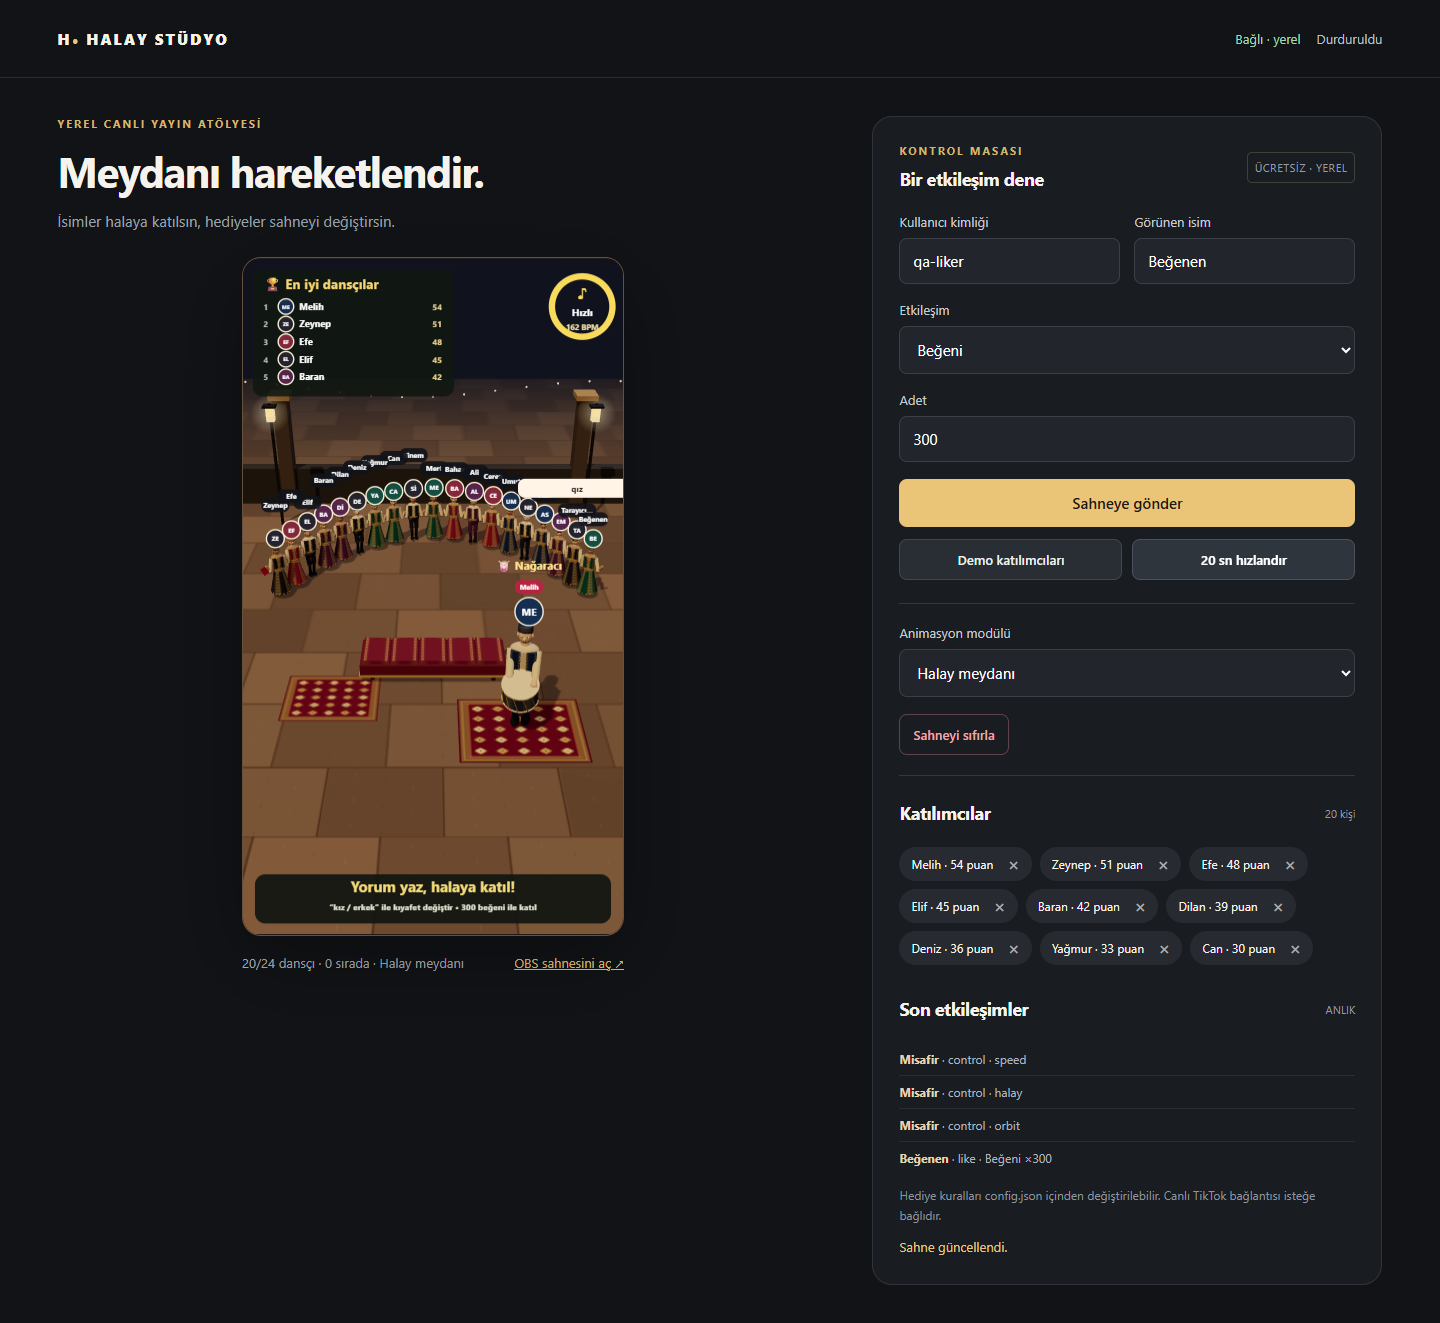
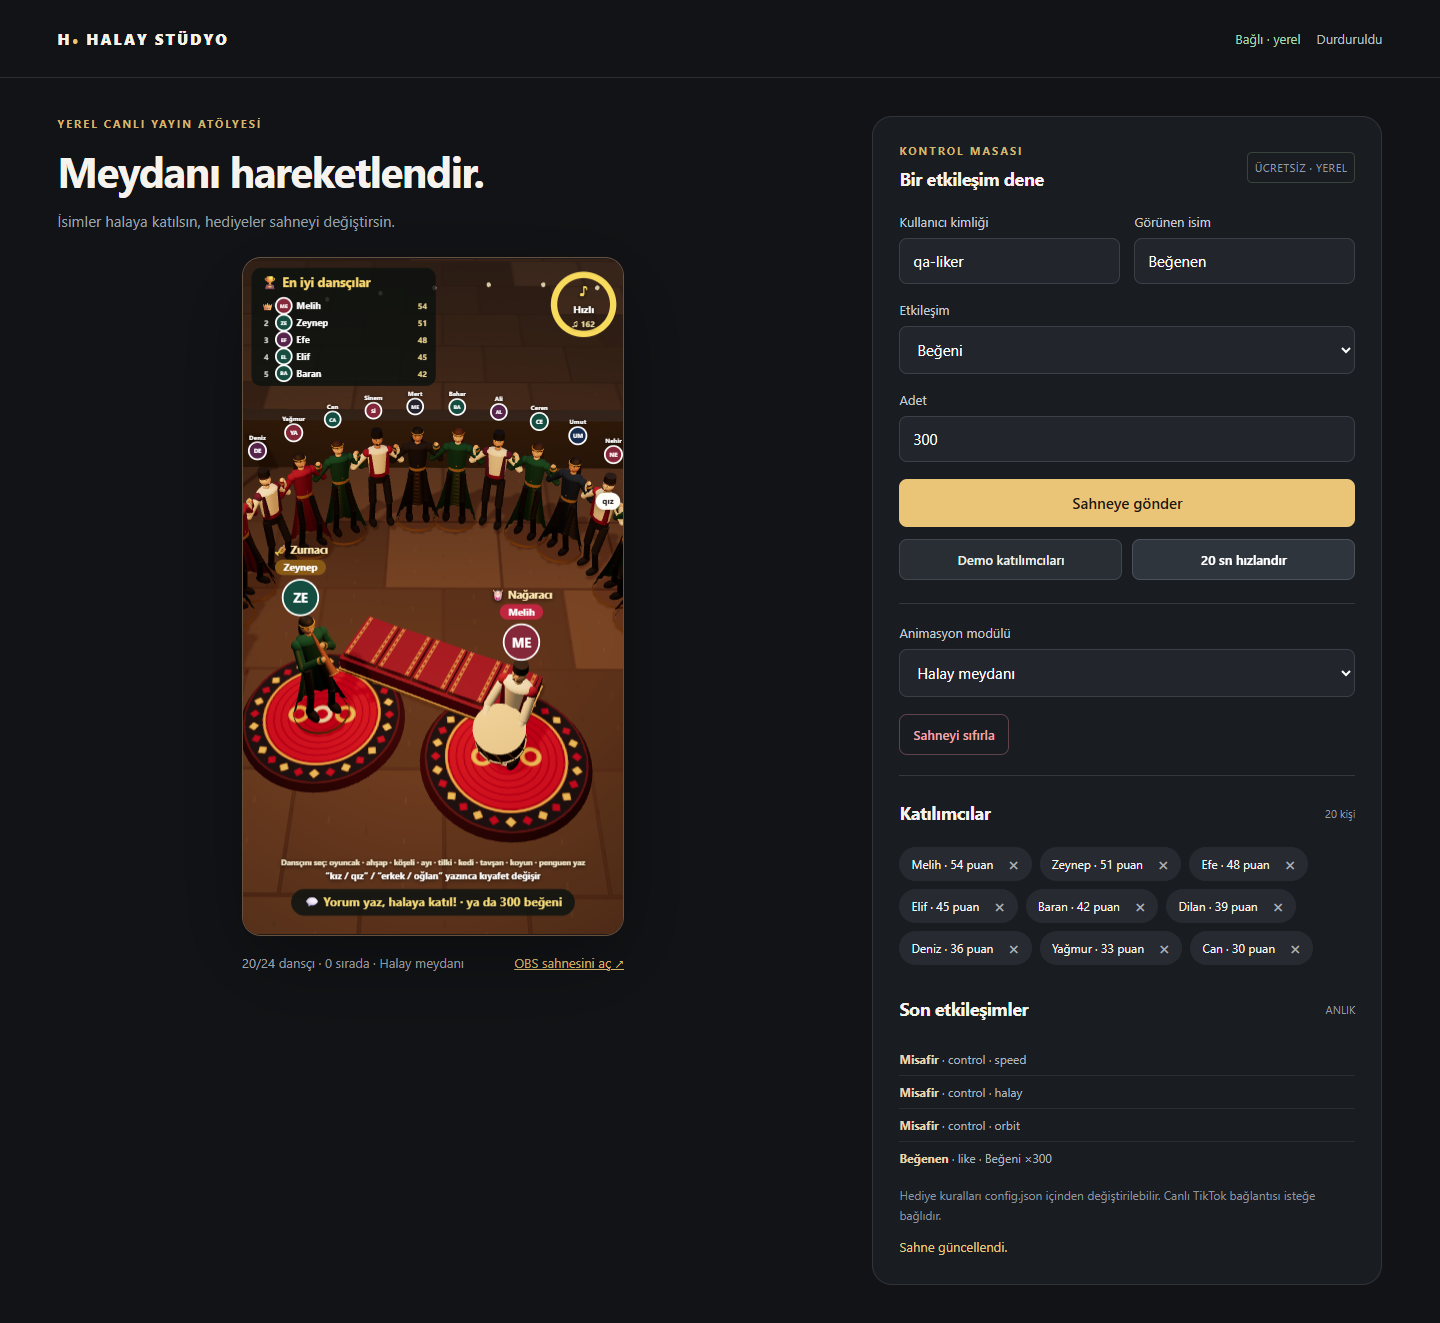
Add costume picks from the reference video and fix test paths
- "Dansçını seç" costumes: ayı, tilki, kedi, tavşan, koyun and penguen
  mascots with their own heads, ears, muzzles and tails; oyuncak (glossy
  plastic), ahşap (carved wood) and köşeli (low-poly) material styles.
- Overlay footer shows the costume list like the reference recording; demo
  comments now cycle through every costume and command.
- Tests locate the project from their own path instead of a hardcoded
  D:\tiktokAnimasyon folder; docs refer to the project folder.
- Refresh QA reports and screenshots from a full passing run.

Changed region(s): [[0.1562, 0.1859, 0.4375, 0.7128]]

diff --git a/app/halay3d.js b/app/halay3d.js
@@ -36,9 +36,59 @@ function dressFabric(color){
  for(let y=10;y<256;y+=22){ctx.fillStyle='#d8b867aa';ctx.beginPath();ctx.moveTo(128,y-5);ctx.lineTo(132,y);ctx.lineTo(128,y+5);ctx.lineTo(124,y);ctx.fill()}
  const tex=new T.CanvasTexture(cn);tex.colorSpace=T.SRGBColorSpace;const material=new T.MeshStandardMaterial({map:tex,roughness:.92,metalness:.02});materials.set(key,material);return material;
 }
+// "Dansçını seç" kostümleri: hayvan maskotları ve malzeme stilleri.
+const ANIMALS={
+ 'ayı':{fur:'#6b4630',muzzle:'#c49a72',ears:'round'},
+ 'tilki':{fur:'#c8622a',muzzle:'#f3e7d8',ears:'pointy',tip:'#2b1d17',tail:'#c8622a'},
+ 'kedi':{fur:'#8d8a86',muzzle:'#efe8de',ears:'cat',whiskers:true},
+ 'tavşan':{fur:'#ece6de',muzzle:'#fbf6f0',ears:'long',inner:'#e9a7b2',tail:'#ffffff'},
+ 'koyun':{fur:'#f1ece2',face:'#2b2522',muzzle:'#3a312c',ears:'side',wool:true},
+ 'penguen':{fur:'#1b1c22',muzzle:'#f2f0ea',ears:'none',beak:'#f0a232',belly:'#f4f1ea'}
+};
+const STYLES=new Set(['oyuncak','ahşap','köşeli']);
+function woodMaterial(dark){
+ const key='wood:'+dark;if(materials.has(key))return materials.get(key);
+ const cn=document.createElement('canvas');cn.width=cn.height=256;const ctx=cn.getContext('2d');
+ ctx.fillStyle=dark?'#6b4428':'#b07a48';ctx.fillRect(0,0,256,256);
+ for(let i=0;i<70;i++){ctx.strokeStyle=i%3?'#00000018':'#ffffff14';ctx.lineWidth=1+i%3;ctx.beginPath();const y=i*3.7;ctx.moveTo(0,y);for(let x=0;x<=256;x+=16)ctx.lineTo(x,y+Math.sin(x*.05+i)*4);ctx.stroke()}
+ const tex=new T.CanvasTexture(cn);tex.colorSpace=T.SRGBColorSpace;const m=new T.MeshStandardMaterial({map:tex,roughness:.7});materials.set(key,m);return m;
+}
+function toyMaterial(source,hash){
+ // Parlak plastik: dokuyu bırakır, rengi doygunlaştırır.
+ const base=new T.Color(source.color);if(source.map)base.set(['#e63946','#2a9d8f','#457bdc','#f4a261','#9b5de5'][hash%5]);
+ const hsl={};base.getHSL(hsl);const key='toy:'+base.getHexString();if(materials.has(key))return materials.get(key);
+ const m=new T.MeshStandardMaterial({color:new T.Color().setHSL(hsl.h,Math.min(1,hsl.s*1.4+.15),Math.min(.62,Math.max(.3,hsl.l*1.15))),roughness:.28,metalness:.05});materials.set(key,m);return m;
+}
+function animalHead(body,kind,a){
+ const fur=mat(a.fur,.85),face=mat(a.face||a.fur,.85),muzzle=mat(a.muzzle,.8),dark=mat('#120f10',.4);
+ ell(body,face,0,1.6,0,.095,.1,.095);
+ if(kind==='penguen'){for(const x of [-.035,.035])ell(body,mat('#f2f0ea',.8),x,1.62,.06,.035,.045,.03);const beak=mesh(geo('beak',()=>new T.ConeGeometry(.025,.08,10)),mat(a.beak,.5),body,0,1.585,.11);beak.rotation.x=Math.PI/2;ell(body,mat(a.belly,.85),0,1.15,.07,.12,.26,.07)}
+ else{ell(body,muzzle,0,1.575,.07,.05,.04,.045);ell(body,dark,0,1.59,.11,.016,.012,.01)}
+ for(const x of [-.034,.034])ell(body,dark,x,1.63,.08,.012,.014,.006);
+ const ears=[];
+ if(a.ears==='round')for(const s of [-1,1])ears.push(ell(body,fur,s*.07,1.69,-.005,.035,.035,.02));
+ if(a.ears==='pointy'||a.ears==='cat')for(const s of [-1,1]){const h=a.ears==='cat'?.07:.1,e=mesh(geo('ear'+h,()=>new T.ConeGeometry(.04,h,4)),fur,body,s*.06,1.7+h*.3,-.01);e.rotation.z=-s*.25;if(a.tip)mesh(geo('eartip',()=>new T.ConeGeometry(.018,.035,4)),mat(a.tip),body,s*.06+(-s*.25)*-.035,1.7+h*.3+h*.38,-.01).rotation.z=-s*.25}
+ if(a.ears==='long')for(const s of [-1,1]){const e=ell(body,fur,s*.04,1.78,-.01,.028,.13,.016);e.rotation.z=-s*.12;const inner=ell(body,mat(a.inner,.8),s*.04,1.78,.004,.015,.1,.008);inner.rotation.z=-s*.12}
+ if(a.ears==='side')for(const s of [-1,1]){const e=ell(body,face,s*.1,1.62,0,.06,.02,.025);e.rotation.z=s*.3}
+ if(a.wool){const wool=mat(a.fur,1);for(let i=0;i<7;i++){const ang=i/7*Math.PI*2;ell(body,wool,Math.sin(ang)*.06,1.68+Math.cos(ang*2)*.01,Math.cos(ang)*.05-.01,.045,.04,.045)}}
+ if(a.whiskers)for(const s of [-1,1])for(const dy of [-.008,.008]){const w=bone(body,mat('#f5f5f0'),.0025);segment(w,v(s*.03,1.575+dy,.1),v(s*.12,1.57+dy*2,.09))}
+ if(a.tail){const t=ell(body,mat(a.tail,.85),0,.85,-.3,kind==='tavşan'?.06:.07,kind==='tavşan'?.06:.07,kind==='tavşan'?.06:.22);t.rotation.x=kind==='tavşan'?0:-.6}
+ return ears;
+}
+function applyStyle(root,kind,hash){
+ if(!STYLES.has(kind))return;
+ const lowSphere=geo('lowsphere',()=>new T.IcosahedronGeometry(1,0)),lowSkirt=geo('lowskirt',()=>new T.CylinderGeometry(.13,.34,1.03,7));
+ root.traverse(o=>{
+  if(!o.isMesh)return;const m=o.material;
+  if(kind==='ahşap')o.material=woodMaterial(m.metalness>.2);
+  else if(kind==='oyuncak')o.material=toyMaterial(m,hash+(m.metalness>.2?2:0));
+  else{const key='flat:'+m.uuid;if(!materials.has(key)){const f=m.clone();f.flatShading=true;f.needsUpdate=true;materials.set(key,f)}o.material=materials.get(key);if(o.geometry===sphere)o.geometry=lowSphere;if(o.geometry===geometries.get('longskirt')){o.geometry=lowSkirt;o.position.y=.535}}
+ });
+}
 function makeActor(user){
  const root=new T.Group(),body=new T.Group();root.add(body);
- const hash=[...user.id].reduce((a,ch)=>a+ch.charCodeAt(0),0),skin=mat(['#c99b78','#d9b08e','#b88763','#e2bc9c'][hash%4],.6),cloth=dressFabric(user.color||'#6d2333'),plain=mat(user.color||'#6d2333',.9),gold=mat('#b89244',.4,.45),dark=mat('#141216',.7),hair=mat(['#1d1411','#33201a','#141215','#4a2c1d'][hash%4],.55);
+ const kind=user.costume,animal=ANIMALS[kind];
+ const hash=[...user.id].reduce((a,ch)=>a+ch.charCodeAt(0),0),skin=animal?mat(animal.fur,.85):mat(['#c99b78','#d9b08e','#b88763','#e2bc9c'][hash%4],.6),cloth=animal?mat(animal.fur,.95):dressFabric(user.color||'#6d2333'),plain=animal?mat(animal.fur,.9):mat(user.color||'#6d2333',.9),gold=mat('#b89244',.4,.45),dark=mat('#141216',.7),hair=mat(['#1d1411','#33201a','#141215','#4a2c1d'][hash%4],.55);
  const female=user.costume!=='erkek';
  // Gövde: ince bel, dar omuz; boy yaklaşık 1.75.
  if(female){
@@ -58,6 +108,8 @@ function makeActor(user){
  }
  // Boyun ve oranlı baş; küçük yüz ayrıntıları.
  ell(body,skin,0,1.48,0,.045,.06,.045);
+ if(animal)animalHead(body,kind,animal);
+ else{
  ell(body,skin,0,1.6,0,.078,.1,.085);
  ell(body,skin,0,1.575,.075,.013,.02,.016);
  for(const x of [-.028,.028])ell(body,dark,x,1.615,.072,.009,.006,.004);
@@ -73,8 +125,9 @@ function makeActor(user){
   mesh(geo('kalpak',()=>new T.CylinderGeometry(.075,.085,.085,20)),dark,body,0,1.71,-.005);
   ell(body,hair,0,1.555,.07,.045,.012,.012);
  }
+ }
  const legs=[];for(const side of [-1,1]){
-  const upper=bone(body,female?dark:mat('#1d1b22',.9),female?.045:.06),lower=bone(body,female?dark:mat('#1d1b22',.9),.045),shoe=ell(body,dark,side*.11,.065,.065,.06,.05,.13);
+  const upper=bone(body,female?dark:mat('#1d1b22',.9),female?.045:.06),lower=bone(body,female?dark:mat('#1d1b22',.9),.045),shoe=ell(body,kind==='penguen'?mat('#f0a232',.5):dark,side*.11,.065,.065,.06,.05,.13);
   legs.push({side,upper,lower,shoe});
  }
  const sleeve=female?cloth:mat('#e6dccb',.85),cuff=female?gold:sleeve;
@@ -98,6 +151,7 @@ function makeActor(user){
   const lip=mesh(geo('zurnalip',()=>new T.TorusGeometry(.05,.009,6,20)),gold,body,0,0,0);lip.position.copy(zurna.bell);lip.quaternion.copy(pipe.quaternion);lip.rotateX(Math.PI/2);
  }
  const flag=new T.Mesh(new T.PlaneGeometry(.22,.28,6,8),new T.MeshStandardMaterial({color:'#b82536',roughness:1,side:T.DoubleSide}));flag.visible=false;body.add(flag);
+ applyStyle(root,kind,hash);
  return {root,body,user,legs,arms,drum,zurna,flag,phase:hash*.001};
 }
 function updateLegs(a,time,beat,scale){

diff --git a/app/scene.js b/app/scene.js
@@ -39,6 +39,7 @@ function hud(t,users){
  const fast=state.speed_until>t,bpm=fast?Math.round(state.bpm*1.45):state.bpm,arc=fast?'#f8da5c':'#8fdc6a';
  c.strokeStyle='#ffffff22';c.lineWidth=9;c.beginPath();c.arc(484,64,42,.7,Math.PI*2.3);c.stroke();c.strokeStyle=arc;c.beginPath();c.arc(484,64,42,.7,fast?Math.PI*2.3:3.6);c.stroke();
  shadowText('♪',484,52,22,arc);shadowText(fast?'Hızlı':'Orta',484,76,14);shadowText('♫ '+bpm,484,97,12,'#ecdca0');
+ shadowText('Dansçını seç: oyuncak · ahşap · köşeli · ayı · tilki · kedi · tavşan · koyun · penguen yaz',270,862,11,'#f1e6c8');
  shadowText('“kız / qız” / “erkek / oğlan” yazınca kıyafet değişir',270,882,13,'#fff');
  const threshold=state.like_threshold||300,label=`💬 Yorum yaz, halaya katıl! · ya da ${threshold} beğeni`;
  c.font='700 17px "Segoe UI",sans-serif';const w=c.measureText(label).width+36;rounded(270-w/2,896,w,38,19,'#121512e6');text(label,270,921,17,'#f4d978');

diff --git a/server.py b/server.py
@@ -293,13 +293,13 @@ async def stop_session():
 async def automatic_demo():
     # Videodaki gibi izleyiciler hızla yorum yazıp halkaya katılır; ara sıra hediye ve beğeni gelir.
     names=['Melih','Zeynep','Efe','Elif','Baran','Dilan','Deniz','Yağmur','Can','Sinem','Mert','Bahar','Ali','Ceren','Umut','Nehir','Aslı','Emre','Duru','Özgür','Nizo','Gamze','Tayyip','Fatoş','Ceylan','Murat','Sevgi','Hazal','Arda','Ebru']
-    comments=['katıl','halaya katıl','katıl','kız','erkek','oğlan','qız','çok güzel','👏👏','yallıya katıl','halay!','harika']
+    comments=['katıl','halaya katıl','katıl','kız','erkek','oğlan','qız','çok güzel','👏👏','yallıya katıl','halay!','harika','ayı','tilki','kedi','tavşan','koyun','penguen','oyuncak','ahşap','köşeli']
     index=0
     while True:
         async with lock:
             uid='auto'+str(index%60)
             name=names[index%len(names)]+(' '+str(index//len(names)+1) if index>=len(names) else '')
-            payload=dict(type='comment',user_id=uid,name=name,text=comments[(index*7)%len(comments)],count=1)
+            payload=dict(type='comment',user_id=uid,name=name,text=comments[(index*5)%len(comments)],count=1)
             if uid not in engine.users and len(engine.users)>=engine.config['max_users']:
                 uid=next(iter(engine.users));payload['user_id']=uid;payload['name']=engine.users[uid]['name']
             engine.apply(payload)

diff --git a/tests/run_all.py b/tests/run_all.py
@@ -1,7 +1,7 @@
 import subprocess,sys,time,os,json,uuid
 from pathlib import Path
 from urllib.request import urlopen
-ROOT=Path(r'D:\tiktokAnimasyon')
+ROOT=Path(__file__).resolve().parents[1]
 os.environ['TEMP']=str(ROOT/'work');os.environ['TMP']=str(ROOT/'work');os.environ['PYTHONDONTWRITEBYTECODE']='1'
 try:
     with urlopen('http://127.0.0.1:8765/api/state',timeout=1):

diff --git a/tests/audio_qa.py b/tests/audio_qa.py
@@ -1,7 +1,7 @@
 import asyncio,json,os
 from pathlib import Path
 from playwright.async_api import async_playwright
-ROOT=Path(r'D:\tiktokAnimasyon')
+ROOT=Path(__file__).resolve().parents[1]
 os.environ['TEMP']=str(ROOT/'work');os.environ['TMP']=str(ROOT/'work')
 async def main():
  errors=[];report={}

diff --git a/tests/browser_qa.py b/tests/browser_qa.py
@@ -1,7 +1,7 @@
 import asyncio,json,os
 from pathlib import Path
 from playwright.async_api import async_playwright
-ROOT=Path(r'D:\tiktokAnimasyon')
+ROOT=Path(__file__).resolve().parents[1]
 os.environ['TEMP']=str(ROOT/'work');os.environ['TMP']=str(ROOT/'work')
 async def main():
     errors=[]
